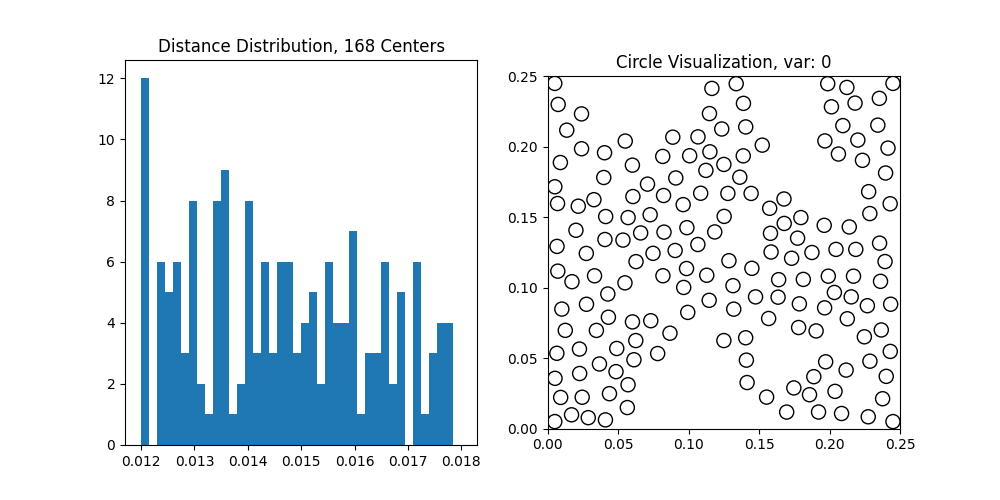
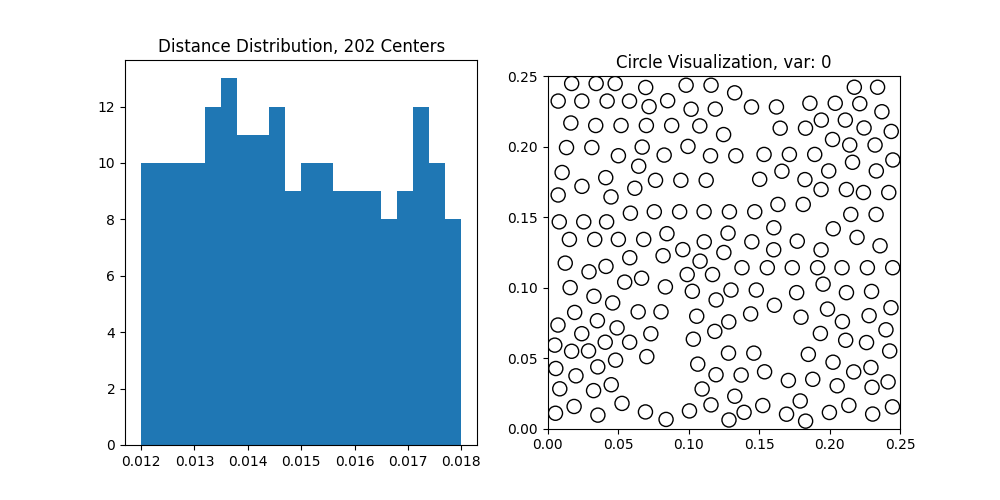
update: improve performence

diff --git a/circle.py b/circle.py
@@ -5,37 +5,36 @@ from scipy.spatial import KDTree
 from PIL import Image
 import io
 
-width = 0.25  
-height = 0.25  
+width = 0.5/2  
+height = 0.5/2  
 radius = 5e-3  
 min_distance = 12e-3  
 max_distance = 18e-3  
 
 centers = [
-            # (width/2-max_distance, height/2-max_distance),
-            # (width/2+max_distance, height/2+max_distance),
-            # (width/2-max_distance, height/2+max_distance),
-            # (width/2+max_distance, height/2-max_distance),
-            (radius, radius), 
-            (width-radius, height-radius),
-            (width-radius, radius),
-            (radius, height-radius),
-            # (width/2, height/2),
-            (width*3/4, height/2),
-            (width/2, height/4),
-            (width/4, height/4),
-            (width/2, height*3/4),
-            # (width/2, radius),
-            # (width-radius, height/2),
-            # (radius, height/2),
-            # (width/2, height-radius),
-
+            # [width/2-max_distance, height/2-max_distance],
+            # [width/2+max_distance, height/2+max_distance],
+            # [width/2-max_distance, height/2+max_distance],
+            # [width/2+max_distance, height/2-max_distance],
+            # [radius, radius], 
+            # [width-radius, height-radius],
+            # [width-radius, radius],
+            # [radius, height-radius],
+            [width/2, height/2],
+            # [width*3/4, height/2],
+            # [width/2, height/4],
+            # [width/4, height/2],
+            # [width/2, height*3/4],
+            # [width/2, radius],
+            # [width-radius, height/2],
+            # [radius, height/2],
+            # [width/2, height-radius],
             ]
 tree = KDTree(centers)
 
 def im_show(distances, centers, cnt, curent_var):
     _, (ax1, ax2) = plt.subplots(1, 2, figsize=(10, 5))
-    ax1.hist(distances, bins=40, range=(min_distance, max_distance))
+    ax1.hist(distances, bins=20, range=(min_distance, max_distance))
     ax1.set_title(f'Distance Distribution, {cnt} Centers')
     
     ax2.set_xlim(0, width)
@@ -60,7 +59,7 @@ def get_dist_list(check_centers, k = 1):
         distances = d[:,1]
     return distances.tolist()
 
-def get_best_radius(center_dists, bins=100):
+def get_best_radius(center_dists, bins=200):
     min_hist_idxs = []
     hist, bin_edges = np.histogram(center_dists, range=(min_distance, max_distance),bins=bins)
     min_hist = min(hist)
@@ -108,20 +107,44 @@ def get_min_var_idx(points, c_idxs, bins=20):
     for i in range(len(hist_var)):
         if hist_var[i]==min_var:
             p_idxs.append(i)
-    p_idx = np.random.choice(p_idxs)
+    # p_idx = np.random.choice(p_idxs)
+    p_idx = p_idxs[-1]
     c_idx = c_idxs[p_idx]
     return c_idx, p_idx
-    
+
+def double_check_centers(centers, cnt=20):
+    global tree, min_distance, max_distance
+    centers = np.array(centers)
+    l = len(centers)//3
+    dist, ind = tree.query(centers, k=l)
+    sum_dist = np.sum(dist, axis=1)
+    # average_dist = np.sum(sum_dist)/(l*l)
+    sorted_idx = np.argsort(sum_dist)[::-1]
+    check_centers = centers[sorted_idx[:cnt]].tolist()
+    c = check_centers.copy()
+    for i in range(cnt):
+        if (c[i][0] < 1.2*radius 
+            or c[i][1] < 1.2*radius
+            or c[i][0] > width - 1.2*radius
+            or c[i][1] > height -1.2*radius):
+            check_centers.remove(c[i])
+    return check_centers
+
 
 def bfs(centers, cnt=1000, sample_cnt=50):
     global tree, min_distance, max_distance
     queue = centers.copy()
     imgs = []
+    ave_dist = np.inf
     while queue:
         samples_radius = get_best_radius(get_dist_list(centers))
         points, c_idxs = sample_circle(samples_radius, sample_cnt, queue)
         if not points:
-            break
+            q = double_check_centers(centers, cnt=5)
+            if q==queue:
+                break
+            queue = q
+            continue
         c_idx, p_idx = get_min_var_idx(points, c_idxs)
         _ = queue.pop(c_idx)
         p = points[p_idx]
@@ -135,9 +158,15 @@ def bfs(centers, cnt=1000, sample_cnt=50):
         if len(centers)>=cnt:
             return centers, imgs
     return centers, imgs
+import time
+time1 = time.time()
+centers, imgs = bfs(centers, cnt=1000, sample_cnt=8)
+time2 = time.time()
+print(f"Time: {time2-time1}")
 
-centers, imgs = bfs(centers, cnt=1000, sample_cnt=50)
 distances = get_dist_list(centers, k=2)
+
+# print(centers)
 
 result = im_show(distances, centers, len(centers), 0)
 result.save("result.png")
